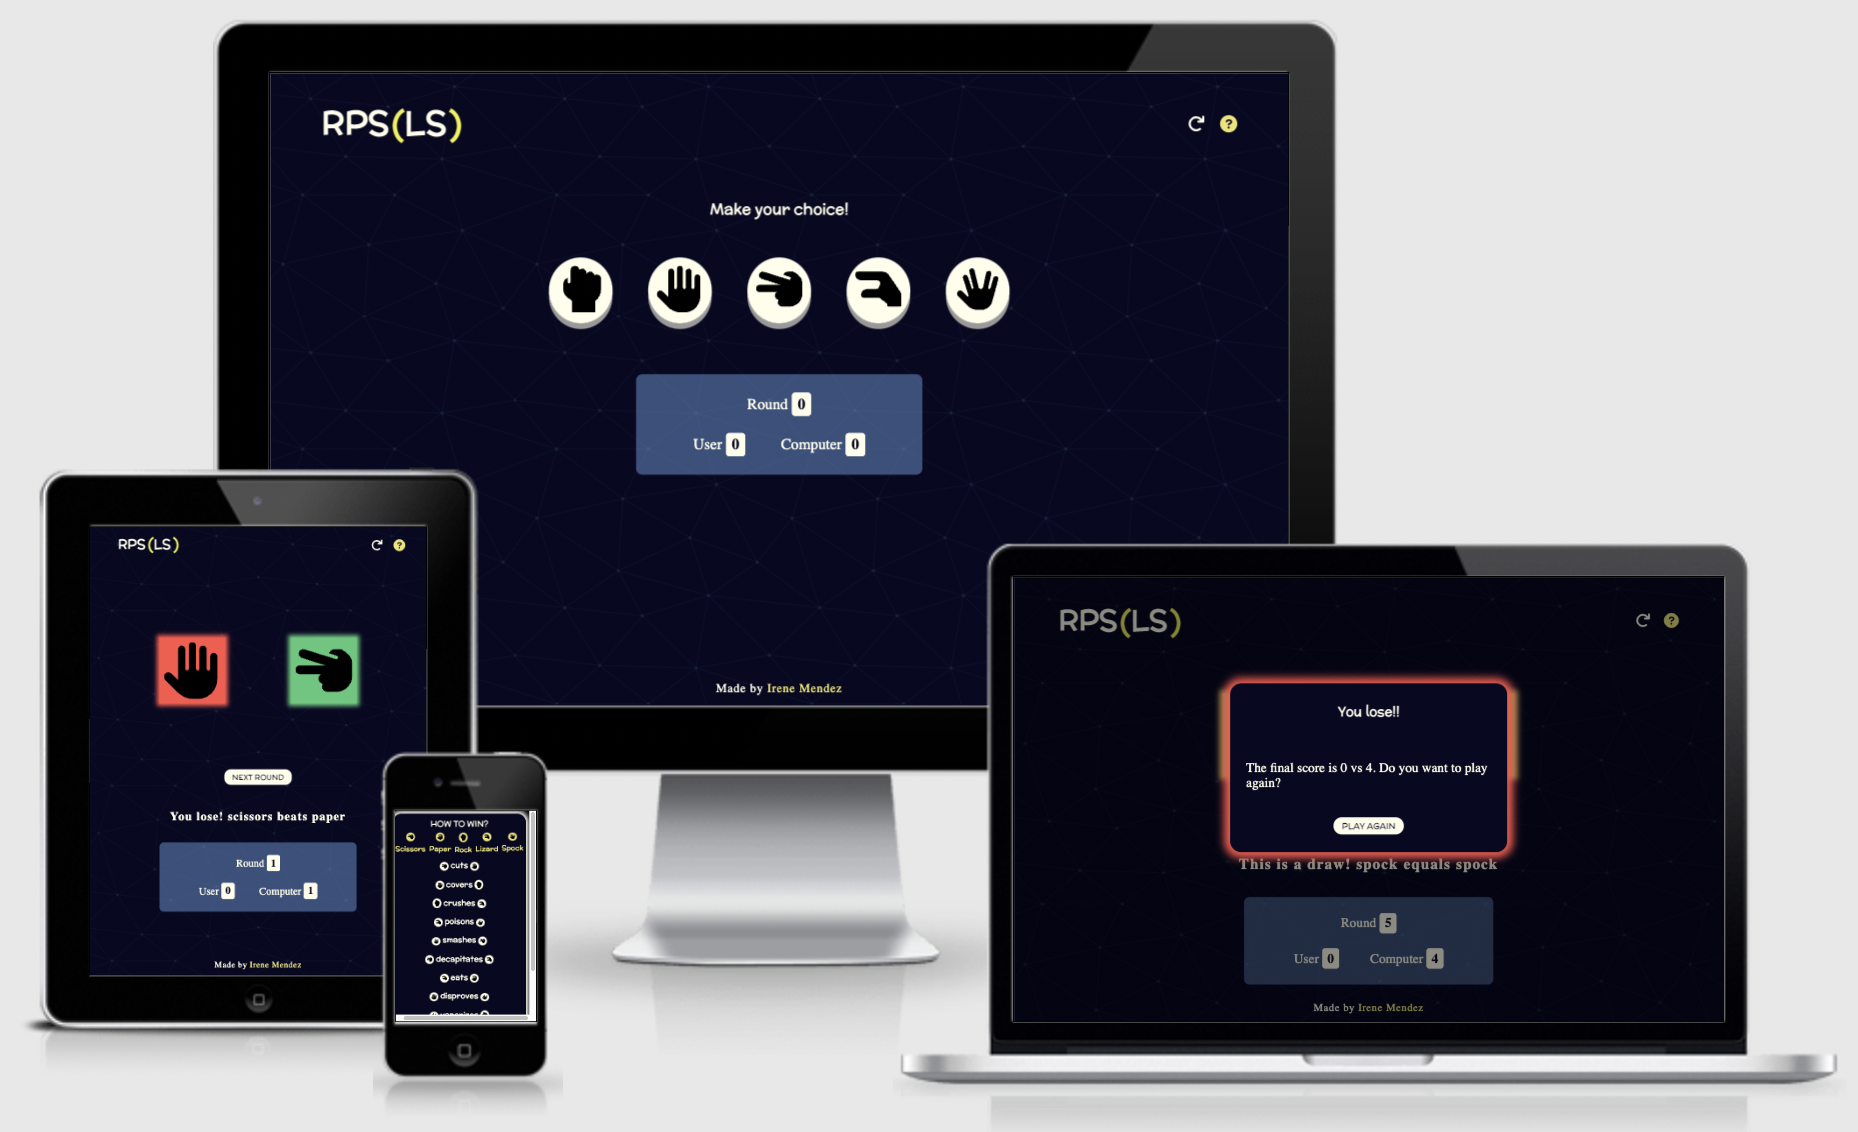
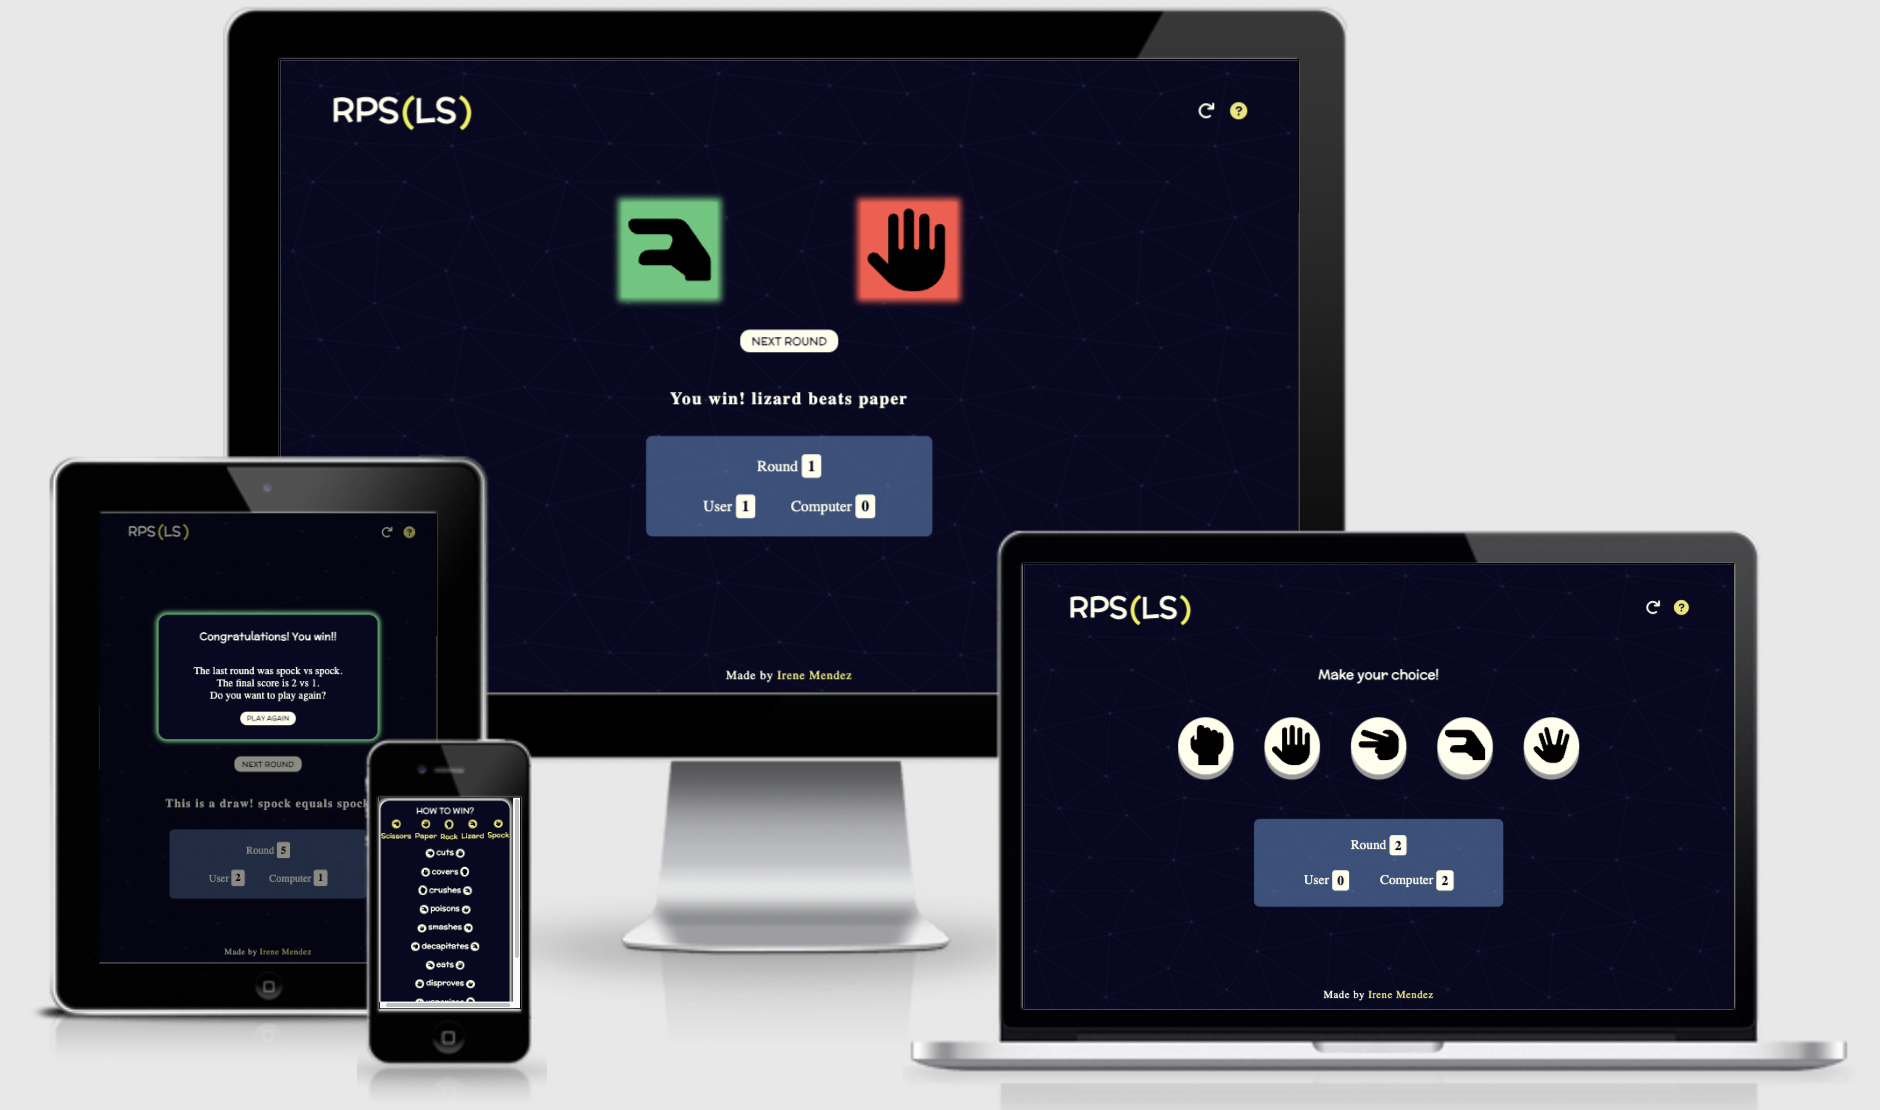
replace images from the images folder

Changed region(s): [[0.0, 0.0, 0.9989, 0.9802], [0.2809, 0.1532, 0.5619, 0.4901]]

diff --git a/README.md b/README.md
@@ -309,7 +309,7 @@ These counters are in a container with a lighter blue as a background color,  ju
 
 - Game Over Screen
 
-After the fifth round is played, automatically it will appear a modal screen showing the ultimate winner of the game with the final scores. The user will have the opportunity to restart the game by clicking the 'play again' button.
+After the fifth round is played, automatically it will appear a modal screen showing the results pf the last round an who is the ultimate winner of the game with the final scores. The user will have the opportunity to restart the game by clicking the 'play again' button.
 The border of the container will be highlighted depending on the final result.
 
 ![Screen for game over](assets/images/images-readme/features/game-over-screen.png)
